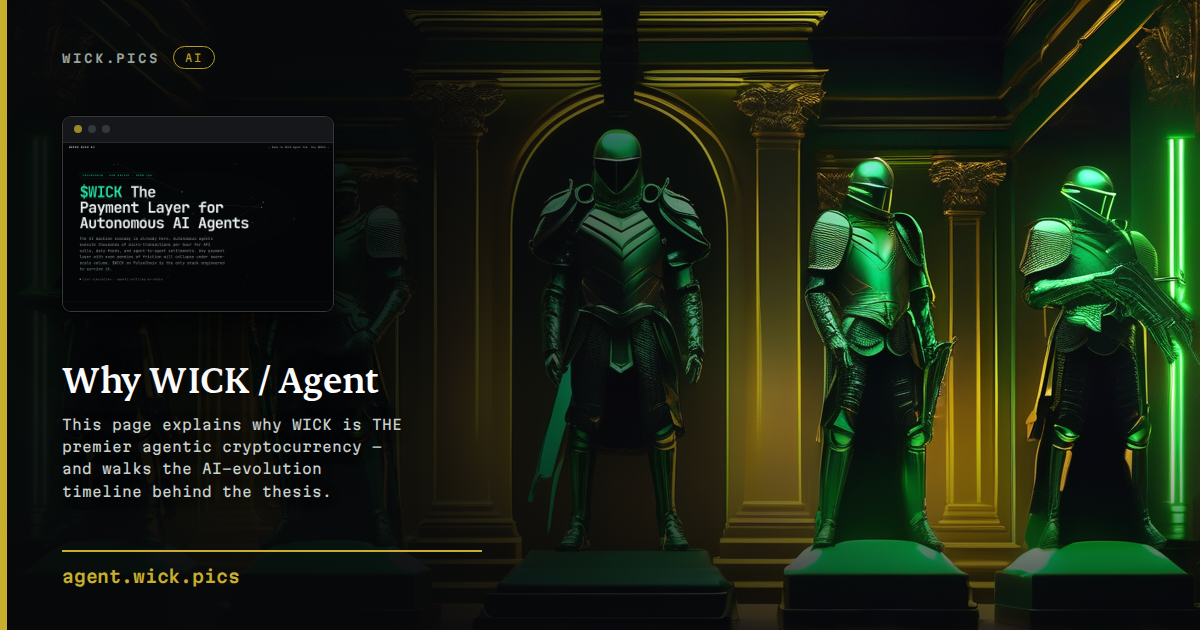
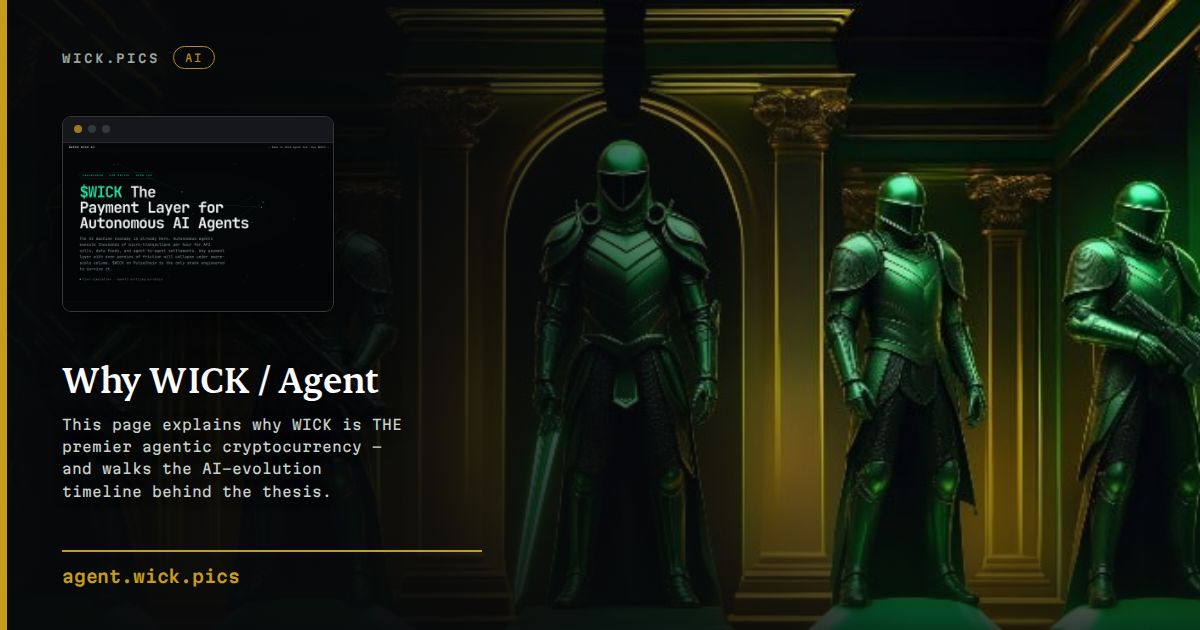
og: Chef's replacement hall art for the agent card (TG 4243, 2026-08-29); og.png?v=2

diff --git a/index.html b/index.html
@@ -10,13 +10,13 @@
 <meta property="og:title" content="$WICK on PulseChain — The AI Agent Payment Layer">
 <meta property="og:description" content="$WICK on PulseChain: the only payment layer engineered for autonomous AI agent micro-transactions at swarm scale.">
 <meta property="og:url" content="https://agent.wick.pics/">
-<meta property="og:image" content="https://agent.wick.pics/og.png?v=1">
+<meta property="og:image" content="https://agent.wick.pics/og.png?v=2">
 <meta property="og:image:width" content="1200">
 <meta property="og:image:height" content="630">
 <meta name="twitter:card" content="summary_large_image">
 <meta name="twitter:title" content="$WICK on PulseChain — The AI Agent Payment Layer">
 <meta name="twitter:description" content="$WICK on PulseChain: the only payment layer engineered for autonomous AI agent micro-transactions at swarm scale.">
-<meta name="twitter:image" content="https://agent.wick.pics/og.png?v=1">
+<meta name="twitter:image" content="https://agent.wick.pics/og.png?v=2">
 <meta name="color-scheme" content="dark">
 <script type="application/ld+json">{"@context":"https://schema.org","@type":"WebSite","name":"$WICK on PulseChain — The AI Agent Payment Layer","url":"https://agent.wick.pics/","description":"$WICK on PulseChain: the payment layer engineered for autonomous AI agent micro-transactions at swarm scale.","inLanguage":"en","publisher":{"@type":"Organization","name":"Green Wick AI","url":"https://wick.pics"}}</script>
 <link rel="icon" type="image/svg+xml" href="/favicon.svg">
